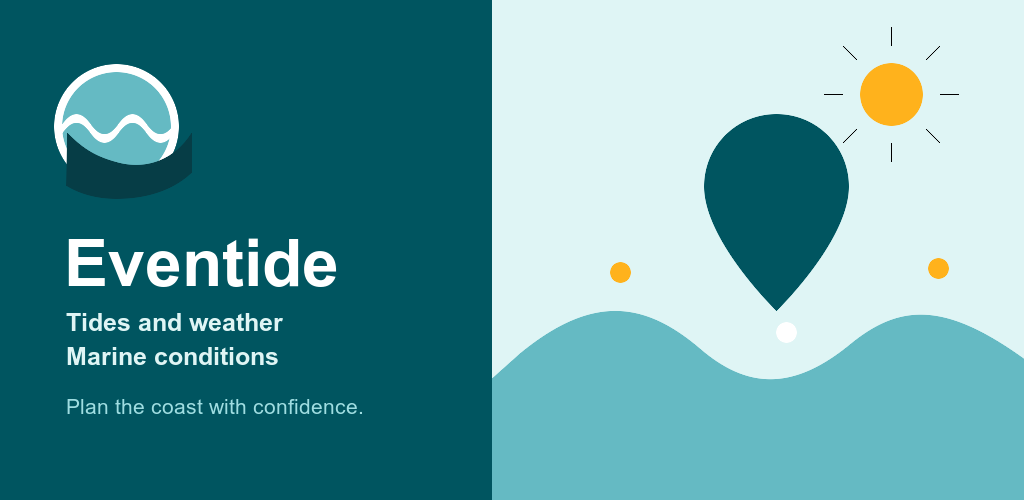
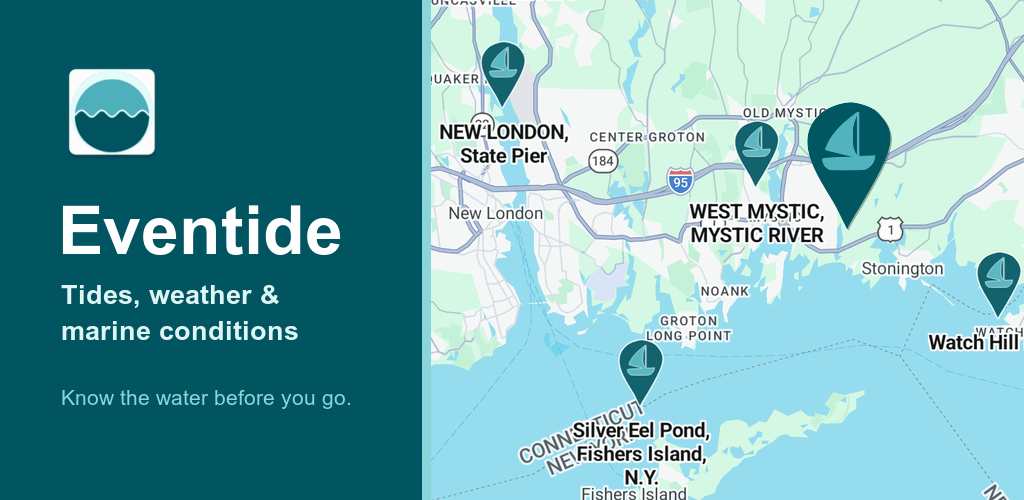
Redesign Eventide feature graphic

diff --git a/docs/google-play-listing.md b/docs/google-play-listing.md
@@ -16,6 +16,15 @@ The canonical phone screenshot order is:
 
 Google Play requires the feature graphic to be a 1024x500 PNG or JPEG without
 alpha. Its editable source is `docs/assets/google-play-feature-graphic.svg`.
+The composition uses the shipping launcher asset, the shipping map-pin vector,
+and the first store screenshot as product proof. Render it from the repository
+root so the source-image references resolve:
+
+```bash
+magick -background none docs/assets/google-play-feature-graphic.svg \
+  -resize 1024x500\! -alpha off PNG24:fastlane/metadata/android/en-US/images/featureGraphic.png
+```
+
 Eventide phone screenshots use 1080x1920 PNGs without alpha. The existing Play
 icon remains unchanged; a future replacement can be supplied as a 512x512
 `images/icon.png` aligned with the launcher icon.